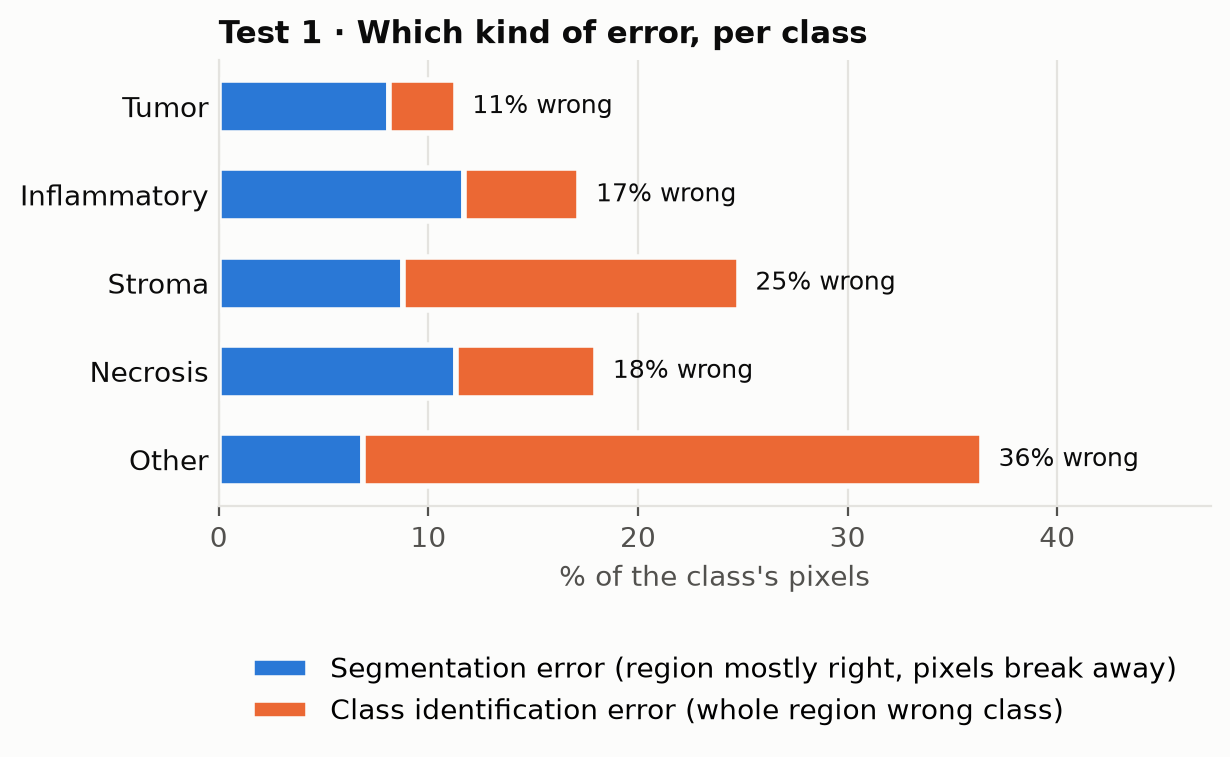
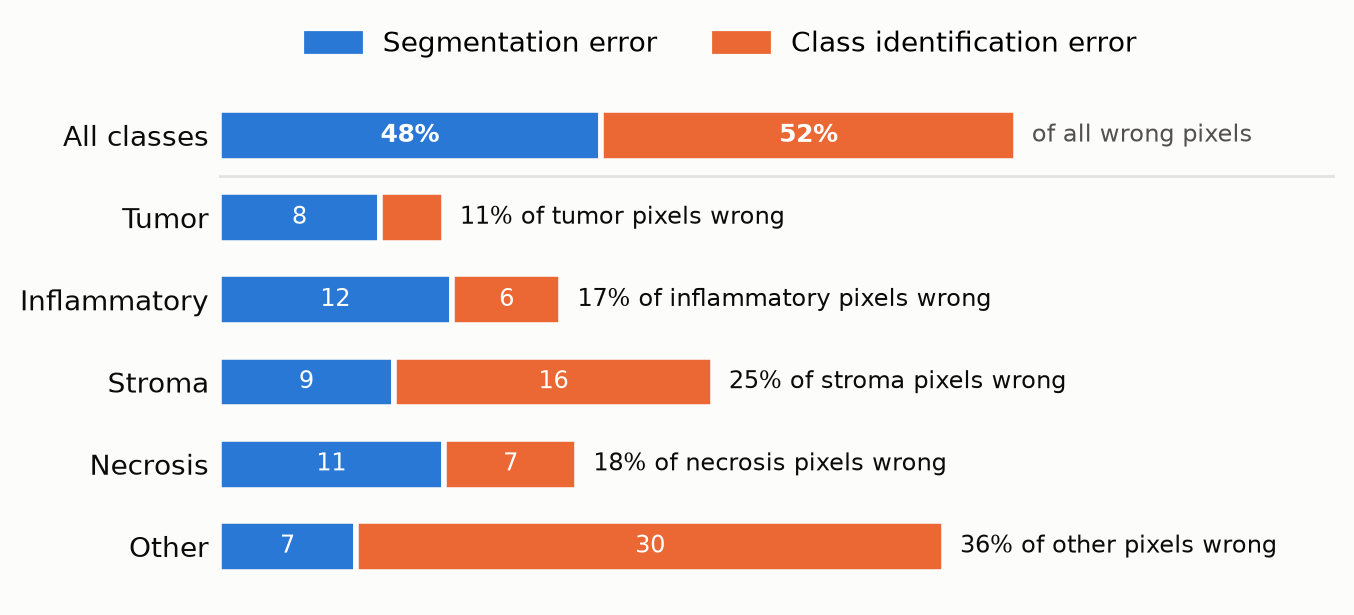
Deliverable 7: separate PanNuke/BCSS preliminary tests, error-type diagram, clearer test charts
Claude-Session: https://claude.ai/code/session_01CTh5Qud5ucWXzk6pK8w2Lo

diff --git a/docs/deliverable7/index.html b/docs/deliverable7/index.html
@@ -41,7 +41,7 @@
 <header>
   <h1>Deliverable 7</h1>
   <p class="sub">November 23, 2026 · PanNuke (cell nuclei) and BCSS (tissue regions)</p>
-  <nav><a href="#recap">Recap</a><a href="#problem">Problems</a><a href="#prelim">Preliminary tests</a><a href="#pannuke-organs">PanNuke per organ</a><a href="#current">BCSS U-Net</a></nav>
+  <nav><a href="#recap">Recap</a><a href="#problem">Problems</a><a href="#prelim">PanNuke tests</a><a href="#prelim-bcss">BCSS tests</a><a href="#pannuke-organs">PanNuke per organ</a><a href="#current">BCSS U-Net</a></nav>
 </header>
 
 <section id="recap">
@@ -91,10 +91,7 @@
 </section>
 
 <section id="prelim">
-<h2>Preliminary tests</h2>
-<p>Two questions on each dataset, with no training: <b>which problem causes the errors</b>, and <b>what fixing each one is worth</b>.</p>
-
-<h3 id="prelim-pannuke">PanNuke · HoVer-Net</h3>
+<h2>PanNuke preliminary tests</h2>
 <p class="note">Frozen HoVer-Net · 400 dev patches from PanNuke folds 1 and 3 (all organs except Adrenal) · rules counted on 4,089 separate patches · no training.</p>
 <p>On PanNuke, a <b>segmentation</b> error is an outline mistake: a nucleus that is missed, invented, or drawn too big or too small. A <b>class identification</b> error is a kind mistake: the right nucleus with the wrong cell type.</p>
 <div class="wrap"><table>
@@ -143,27 +140,27 @@
 <div class="take"><b>Regression (patch 72):</b> the stronger sweep correctly fixes two false "neoplastic" nuclei, but also turns the one real neoplastic nucleus (large, right) into connective. With no cancer left in the patch, the whole neoplastic class scores 0, and mIoU drops from 0.405 to 0.301. Stronger presence settings fix more false cancer nuclei but occasionally remove a real one.</div>
 <p class="note">Selected illustrations from 78 patches, including failures, not a representative sample. Full Breast fold-2 cohort (exploratory): previous Breast WCSP 0.4484, larger sweep 0.4479, BCSS-style presence 0.4519. Source: <code>experiments/pannuke_wcsp/bcss_cohesion_20261123/patch_comparisons/</code>.</p>
 
-<h3>BCSS · U-Net</h3>
-<p class="note">Full-resolution U-Net · 185 BCSS dev tiles · no training</p>
-<h4>Test 1 · Which problem causes the errors?</h4>
-<p><b>Method:</b> look at each true region (one connected piece of one class in the ground truth) and the U-Net's labels inside it.</p>
-<ul>
-  <li><b>Example A:</b> a true stroma region of 100 pixels; the U-Net calls 90 stroma and 10 tumor. It got the region right, so the 10 wrong pixels are <b>segmentation</b> errors (the shape is off).</li>
-  <li><b>Example B:</b> a true stroma region of 100 pixels; the U-Net calls 70 "other" and 30 stroma. It misread the region, so the 70 wrong pixels are <b>class identification</b> errors.</li>
-</ul>
-<p class="note">Rule: if the U-Net's most common label in a true region is correct, that region's wrong pixels are segmentation errors; otherwise they are class identification errors.</p>
-<img src="prelim_error_split.png" alt="Test 1: errors per class, segmentation vs class identification">
-<div class="take"><b>Answer:</b> about half each (48% segmentation, 52% class identification). "Other" and stroma fail mostly by class identification; inflammatory and necrosis mostly by segmentation.</div>
+</section>
 
-<h4>Test 2 · What is fixing each problem worth?</h4>
-<p><b>Method:</b> make one problem perfect, keep the U-Net for the other, and re-score. No WCSP.</p>
+<section id="prelim-bcss">
+<h2>BCSS preliminary tests</h2>
+<p class="note">Full-resolution U-Net · 185 BCSS dev tiles · no training</p>
+
+<h3>Two kinds of error</h3>
+<p>For each <b>true region</b> (one connected piece of one class in the ground truth), look at what the U-Net predicts inside it. If its most common label is right, the wrong pixels are <b>segmentation</b> errors (the shape is off). If it's wrong, they are <b>class identification</b> errors (the region was misread).</p>
+<img src="prelim_split_diagram.png" alt="Diagram: a mostly-right region gives segmentation errors; a mostly-wrong region gives class identification errors">
+
+<h3>Test 1 · Which error is more common?</h3>
+<img src="prelim_error_split.png" alt="Test 1: errors per class, segmentation vs class identification">
+<div class="take"><b>About half each.</b> "Other" and stroma fail mostly by class identification; inflammatory and necrosis mostly by segmentation.</div>
+
+<h3>Test 2 · What is fixing each one worth?</h3>
 <ul>
-  <li><b>Perfect class identification:</b> keep the U-Net's own regions, and give each one the class most of its true pixels have.</li>
-  <li><b>Perfect segmentation:</b> keep the true regions, and give each one the class the U-Net predicts for most of it.</li>
-  <li><b>Both perfect</b> = the ground truth (1.0).</li>
+  <li><b>Perfect class identification:</b> keep the U-Net's regions; give each the class most of its true pixels have.</li>
+  <li><b>Perfect segmentation:</b> keep the true regions; give each the class the U-Net predicts for most of it.</li>
 </ul>
-<img src="prelim_ladder.png" alt="Test 2: value of fixing each problem">
-<div class="take"><b>Answer:</b> both problems are worth about the same: perfect class identification +0.1186, perfect segmentation +0.1028. Our presence rule recovers +0.0086 and smoothing +0.0023, a small fraction of either.</div>
+<img src="prelim_ladder.png" alt="Test 2: today's methods vs. each problem made perfect">
+<div class="take"><b>Each problem is worth about +0.10 to +0.12.</b> Presence (+0.0086) and smoothing (+0.0023) recover only a small fraction.</div>
 </section>
 
 <section id="pannuke-organs">

diff --git a/deliverables/figures_20261123/prelim_figures.py b/deliverables/figures_20261123/prelim_figures.py
@@ -172,3 +172,112 @@ def main():
 
 if __name__ == "__main__":
     main()
+
+
+# ---- cleaner BCSS preliminary-test figures ------------------------------------------------
+
+def fig_split_diagram():
+    """Two toy regions: a segmentation error (region mostly right) and a class identification
+    error (region mostly wrong). Colours: stroma blue, tumor red, other pink (wcsp.labels)."""
+    from wcsp.labels import COLORS
+    col = lambda k: np.asarray(COLORS[k]) / 255  # noqa: E731
+    stroma, tumor, other = 2, 0, 4
+    n = 10
+    truth = np.full((n, n), stroma)
+    seg = truth.copy()
+    seg[6:9, 6:9] = tumor; seg[0, 0] = tumor                               # 10 of 100 wrong
+    cls = np.full((n, n), other)
+    cls[:, :3] = stroma                                                    # 70 of 100 wrong
+    fig, axes = plt.subplots(1, 5, figsize=(11, 2.9), gridspec_kw={"width_ratios": [1, 1, 0.25, 1, 1]})
+    def grid(ax, labels, title_text):
+        for (r, c), k in np.ndenumerate(labels):
+            ax.add_patch(plt.Rectangle((c, n - 1 - r), 1, 1, facecolor=col(k), edgecolor=SURFACE, linewidth=1.5))
+        ax.set_xlim(0, n)
+        ax.set_ylim(0, n)
+        ax.set_aspect("equal")
+        ax.tick_params(which="both", length=0, labelbottom=False, labelleft=False)
+        for s in ax.spines.values():
+            s.set_visible(False)
+        ax.set_title(title_text, color=INK, fontsize=10)
+    grid(axes[0], truth, "True region: stroma")
+    grid(axes[1], seg, "U-Net")
+    grid(axes[3], truth, "True region: stroma")
+    grid(axes[4], cls, "U-Net")
+    axes[2].axis("off")
+    axes[1].text(0.5, -0.12, "Mostly stroma ✓ → the 10 wrong\npixels are SEGMENTATION errors",
+                 transform=axes[1].transAxes, ha="center", va="top", color=BLUE, fontsize=10, fontweight="bold")
+    axes[4].text(0.5, -0.12, "Mostly \"other\" ✗ → the 70 wrong\npixels are CLASS IDENTIFICATION errors",
+                 transform=axes[4].transAxes, ha="center", va="top", color=ORANGE, fontsize=10, fontweight="bold")
+    handles = [plt.Rectangle((0, 0), 1, 1, color=col(k)) for k in (stroma, tumor, other)]
+    fig.legend(handles, ["Stroma", "Tumor", "Other"], loc="upper center", ncol=3, frameon=False,
+               bbox_to_anchor=(0.5, 1.08))
+    fig.savefig(OUT / "prelim_split_diagram.png", dpi=200, bbox_inches="tight")
+
+
+def fig_split_v2(seg_pct, cls_pct, overall=(48, 52)):
+    """Test 1: per class, % of the class's pixels wrong, split by error type; 'All' row on top."""
+    names = ["All classes"] + NAMES
+    rows = [None] + list(zip(seg_pct, cls_pct))
+    fig, ax = plt.subplots(figsize=(7.2, 3.3))
+    ys = np.arange(len(names))[::-1]
+    for y, name, r in zip(ys, names, rows):
+        if r is None:   # overall: share of all wrong pixels, drawn on a 0-100 bar of its own
+            a, b = overall
+            ax.barh(y, a * 0.4, color=BLUE, height=0.62, edgecolor=SURFACE, linewidth=2)
+            ax.barh(y, b * 0.4, left=a * 0.4, color=ORANGE, height=0.62, edgecolor=SURFACE, linewidth=2)
+            ax.text(a * 0.2, y, f"{a}%", ha="center", va="center", color="#ffffff", fontsize=9, fontweight="bold")
+            ax.text(a * 0.4 + b * 0.2, y, f"{b}%", ha="center", va="center", color="#ffffff", fontsize=9, fontweight="bold")
+            ax.text(40.8, y, "of all wrong pixels", va="center", color=MUTED, fontsize=8.5)
+            continue
+        g, l = r
+        ax.barh(y, g, color=BLUE, height=0.62, edgecolor=SURFACE, linewidth=2)
+        ax.barh(y, l, left=g, color=ORANGE, height=0.62, edgecolor=SURFACE, linewidth=2)
+        if g >= 4:
+            ax.text(g / 2, y, f"{g:.0f}", ha="center", va="center", color="#ffffff", fontsize=8.5)
+        if l >= 4:
+            ax.text(g + l / 2, y, f"{l:.0f}", ha="center", va="center", color="#ffffff", fontsize=8.5)
+        ax.text(g + l + 0.8, y, f"{g + l:.0f}% of {name.lower() if name != 'Other' else 'other'} pixels wrong",
+                va="center", color=INK, fontsize=8.5)
+    ax.axhline(ys[0] - 0.5, color=GRID, linewidth=1)
+    ax.set_yticks(ys, names)
+    ax.tick_params(axis="y", length=0)
+    ax.set_xlim(0, 56)
+    ax.set_xticks([])
+    ax.spines["bottom"].set_visible(False)
+    ax.spines["left"].set_visible(False)
+    handles = [plt.Rectangle((0, 0), 1, 1, color=c) for c in (BLUE, ORANGE)]
+    ax.legend(handles, ["Segmentation error", "Class identification error"], frameon=False, ncol=2,
+              loc="upper center", bbox_to_anchor=(0.45, 1.16))
+    fig.savefig(OUT / "prelim_error_split.png", dpi=200, bbox_inches="tight")
+
+
+def fig_ladder_v2(raw, wcsp, presence, class_id, seg):
+    """Test 2: today's methods vs. each problem made perfect, on one mIoU axis up to 1.0."""
+    rows = [("U-Net", raw, GRAY, "Today"), ("+ WCSP smoothing", wcsp, GRAY, "Today"),
+            ("+ presence rule", presence, BLUE, "Today"),
+            ("Perfect class identification", class_id, BLUE, "If perfect"),
+            ("Perfect segmentation", seg, ORANGE, "If perfect"),
+            ("Both perfect (= ground truth)", 1.0, "#d9d8d2", "If perfect")]
+    fig, ax = plt.subplots(figsize=(7.2, 3.4))
+    ys = np.array([6.4, 5.4, 4.4, 2.6, 1.6, 0.6])
+    lo = 0.6
+    for y, (name, v, c, _) in zip(ys, rows):
+        ax.barh(y, v - lo, left=lo, color=c, height=0.66, edgecolor=SURFACE, linewidth=2)
+        if v == 1.0:
+            ax.text(0.99, y, "1.0", va="center", ha="right", color=INK, fontsize=9)
+            continue
+        txt = f"{v:.4f}" if name == "U-Net" else f"{v:.4f}  ({v - raw:+.4f})"
+        ax.text(v + 0.006, y, txt, va="center", color=INK, fontsize=9)
+    ax.axvline(raw, color=INK, linewidth=1, linestyle="--", zorder=2)
+    for y, text in ((7.2, "Today"), (3.4, "If one problem were perfect")):
+        ax.text(lo + 0.002, y, text, color=MUTED, fontsize=9.5, fontweight="bold", va="center", zorder=5,
+                bbox={"facecolor": SURFACE, "edgecolor": "none", "pad": 1.5})
+    ax.set_yticks(ys, [r[0] for r in rows])
+    ax.tick_params(axis="y", length=0)
+    ax.set_xlim(lo, 1.08)
+    ax.set_ylim(0, 7.6)
+    ax.set_xlabel("mIoU (axis starts at 0.60; dashed line = U-Net)")
+    ax.grid(axis="x", color=GRID)
+    ax.set_axisbelow(True)
+    ax.spines["left"].set_visible(False)
+    fig.savefig(OUT / "prelim_ladder.png", dpi=200, bbox_inches="tight")

diff --git a/deliverables/deliverable_7.md b/deliverables/deliverable_7.md
@@ -53,26 +53,26 @@ mIoU, with the change vs. the base model in brackets. "—" = not run (yet).
 
 *Full-resolution U-Net · 185 BCSS dev tiles · no training*
 
-### Test 1 · Which problem causes the errors?
+### Two kinds of error
 
-**Method:** look at each true region (one connected piece of one class in the ground truth) and the U-Net's labels inside it.
-- **Example A:** a true stroma region of 100 pixels; the U-Net calls 90 stroma and 10 tumor. It got the region right, so the 10 wrong pixels are **segmentation** errors.
-- **Example B:** a true stroma region of 100 pixels; the U-Net calls 70 "other" and 30 stroma. It misread the region, so the 70 wrong pixels are **class identification** errors.
+For each **true region** (one connected piece of one class in the ground truth), look at what the U-Net predicts inside it. If its most common label is right, the wrong pixels are **segmentation** errors (the shape is off). If it's wrong, they are **class identification** errors (the region was misread).
+
+![Error types](figures_20261123/prelim_split_diagram.png)
+
+### Test 1 · Which error is more common?
 
 ![Test 1](figures_20261123/prelim_error_split.png)
 
-**Answer:** about half each (48% segmentation, 52% class identification). "Other" and stroma fail mostly by class identification; inflammatory and necrosis mostly by segmentation.
+**About half each.** "Other" and stroma fail mostly by class identification; inflammatory and necrosis mostly by segmentation.
 
-### Test 2 · What is fixing each problem worth?
+### Test 2 · What is fixing each one worth?
 
-**Method:** make one problem perfect, keep the U-Net for the other, and re-score. No WCSP.
-- **Perfect class identification:** keep the U-Net's own regions, and give each one the class most of its true pixels have.
-- **Perfect segmentation:** keep the true regions, and give each one the class the U-Net predicts for most of it.
-- **Both perfect** = the ground truth (1.0).
+- **Perfect class identification:** keep the U-Net's regions; give each the class most of its true pixels have.
+- **Perfect segmentation:** keep the true regions; give each the class the U-Net predicts for most of it.
 
 ![Test 2](figures_20261123/prelim_ladder.png)
 
-**Answer:** both problems are worth about the same: perfect class identification +0.1186, perfect segmentation +0.1028. Our presence rule recovers +0.0086 and smoothing +0.0023, a small fraction of either.
+**Each problem is worth about +0.10 to +0.12.** Presence (+0.0086) and smoothing (+0.0023) recover only a small fraction.
 
 ---
 
